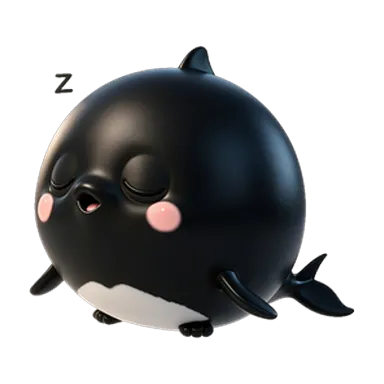
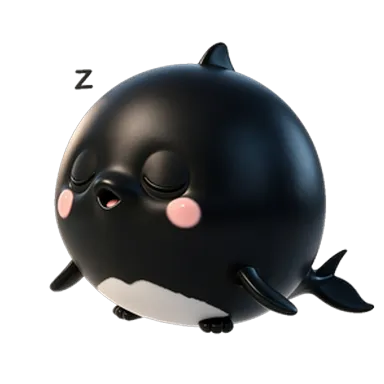
fix(pet): v0.4.21 小黑鲸动画位移恢复 — 归一化保留 bbox 中心位移,蹦跳不再被抹平;素材版本 v4

Changed region(s): [[0.0625, 0.0938, 0.9688, 0.9062], [0.5625, 0.375, 0.625, 0.4688]]

diff --git a/lib/client.js b/lib/client.js
@@ -1081,7 +1081,7 @@ window.__ModuleLoader__.load({
 		 * 素材版本参数:素材更新(如黑鲸 V1→V2)时递增,URL 变化强制浏览器绕过
 		 * immutable 缓存重新拉取(素材路径不变、内容变了,靠 ?v= 失效旧缓存)。
 		 */
-		const PET_ASSET_VER = "v3";
+		const PET_ASSET_VER = "v4";
 		/** 拼接素材 URL(带版本参数)。 */
 		function petAsset(skin, kind, emotion) {
 			return PET_ASSET_BASE + skin + "/" + kind + "/" + emotion + ".webp?v=" + PET_ASSET_VER;

diff --git a/CHANGELOG.md b/CHANGELOG.md
@@ -2,7 +2,13 @@
 
 本项目的版本历史。格式遵循 [Keep a Changelog](https://keepachangelog.com/zh-CN/1.0.0/),版本号遵循 [语义化版本](https://semver.org/lang/zh-CN/)。
 
+## [0.4.21] - 2026-08-22
+
+### 修复
+- **小黑鲸动画位移恢复**:尺寸归一化由「每帧居中」改为「统一尺寸、保留各帧角色位移」(以 bbox 中心为锚),蹦跳/颤抖等整体位移动画不再被抹平;角色高度统一 ~295px,素材版本升至 `?v=4` 强制刷新。
+
 ## [0.4.20] - 2026-08-22
+
 
 ### 变更
 - **数据气泡改毛玻璃**:半透明背景 + `backdrop-filter: blur(12px) saturate(1.4)`(参考 Codex/苹果,透出背后界面并模糊);浅色 rgba(255,255,255,.6)/深色 rgba(28,30,36,.6),半透明描边与小尾巴同步;不支持 backdrop-filter 时降级为纯半透明。
